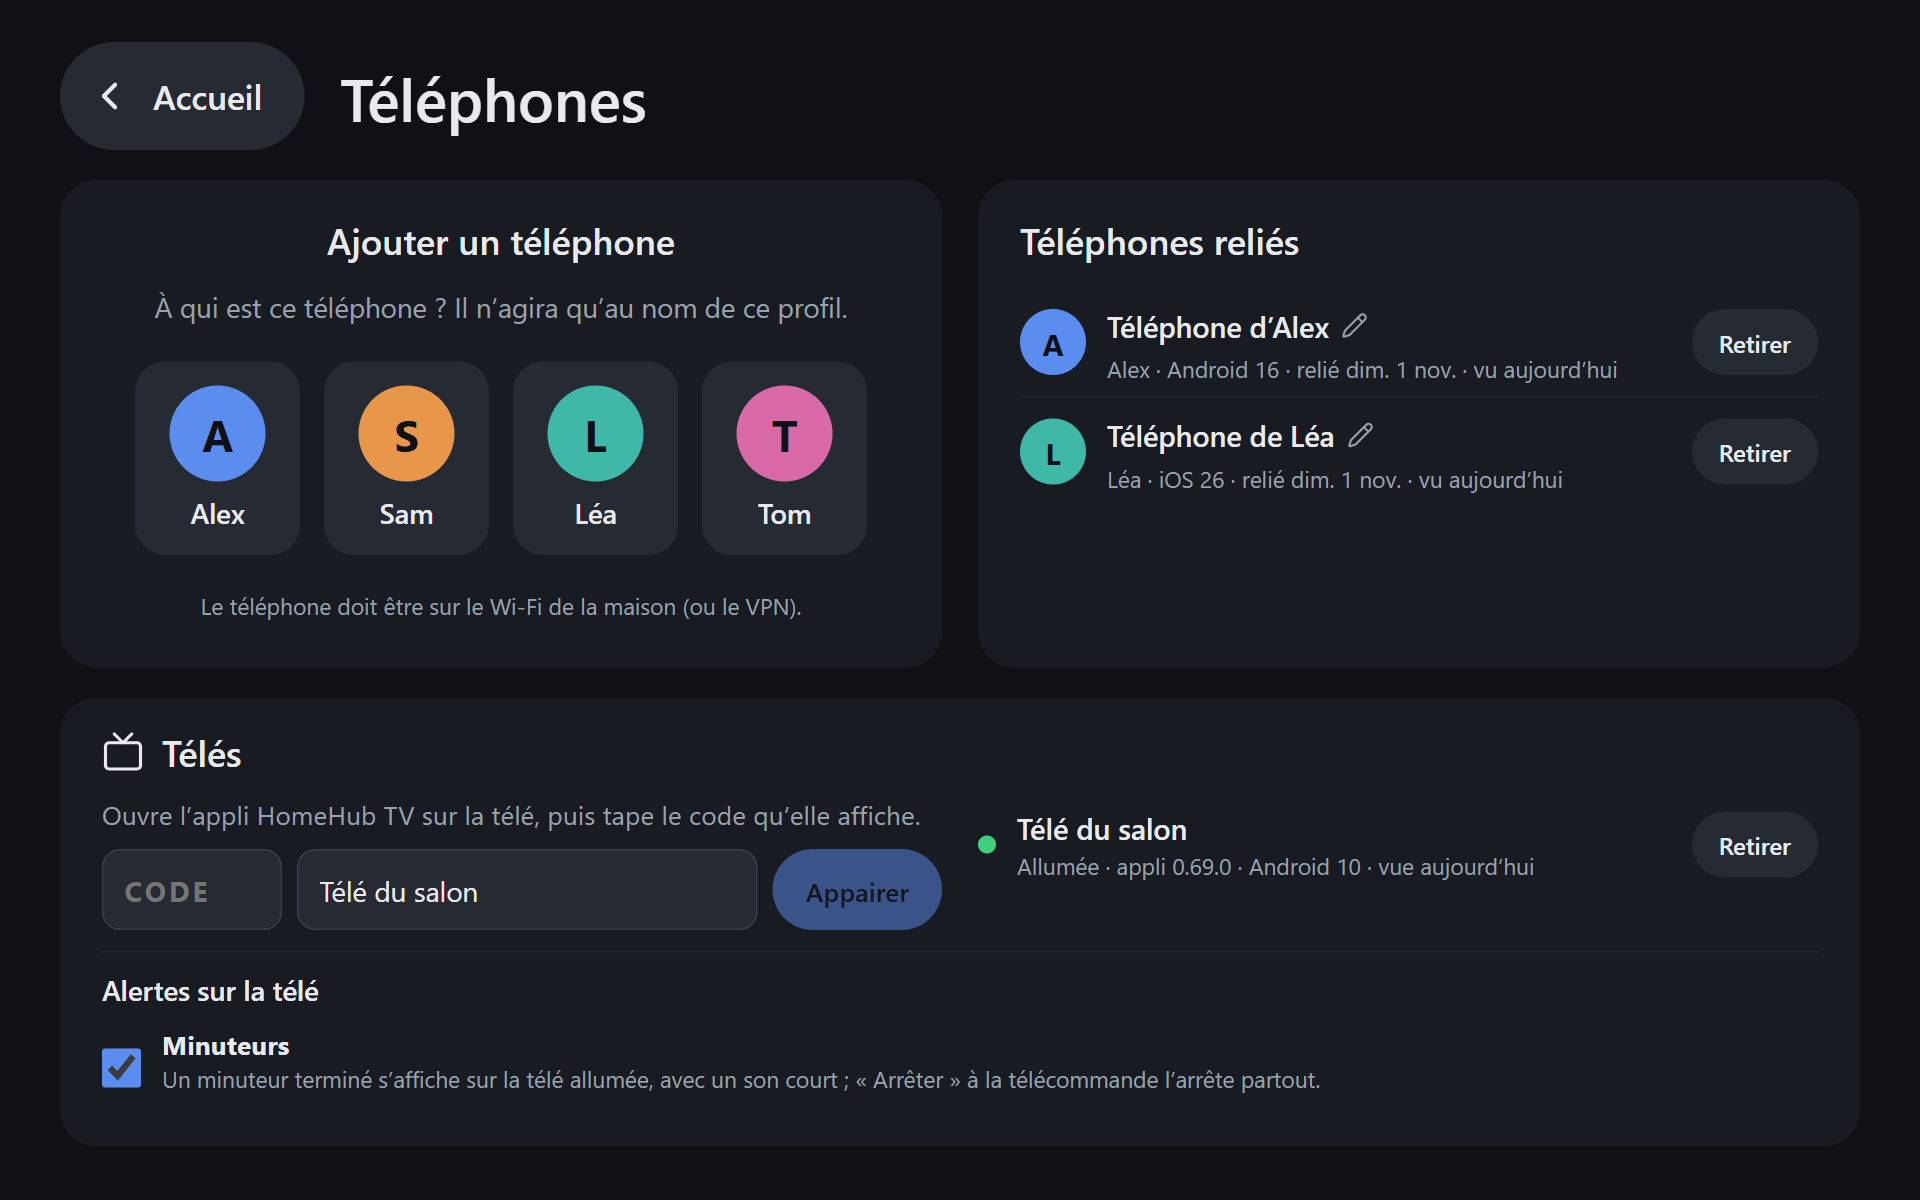
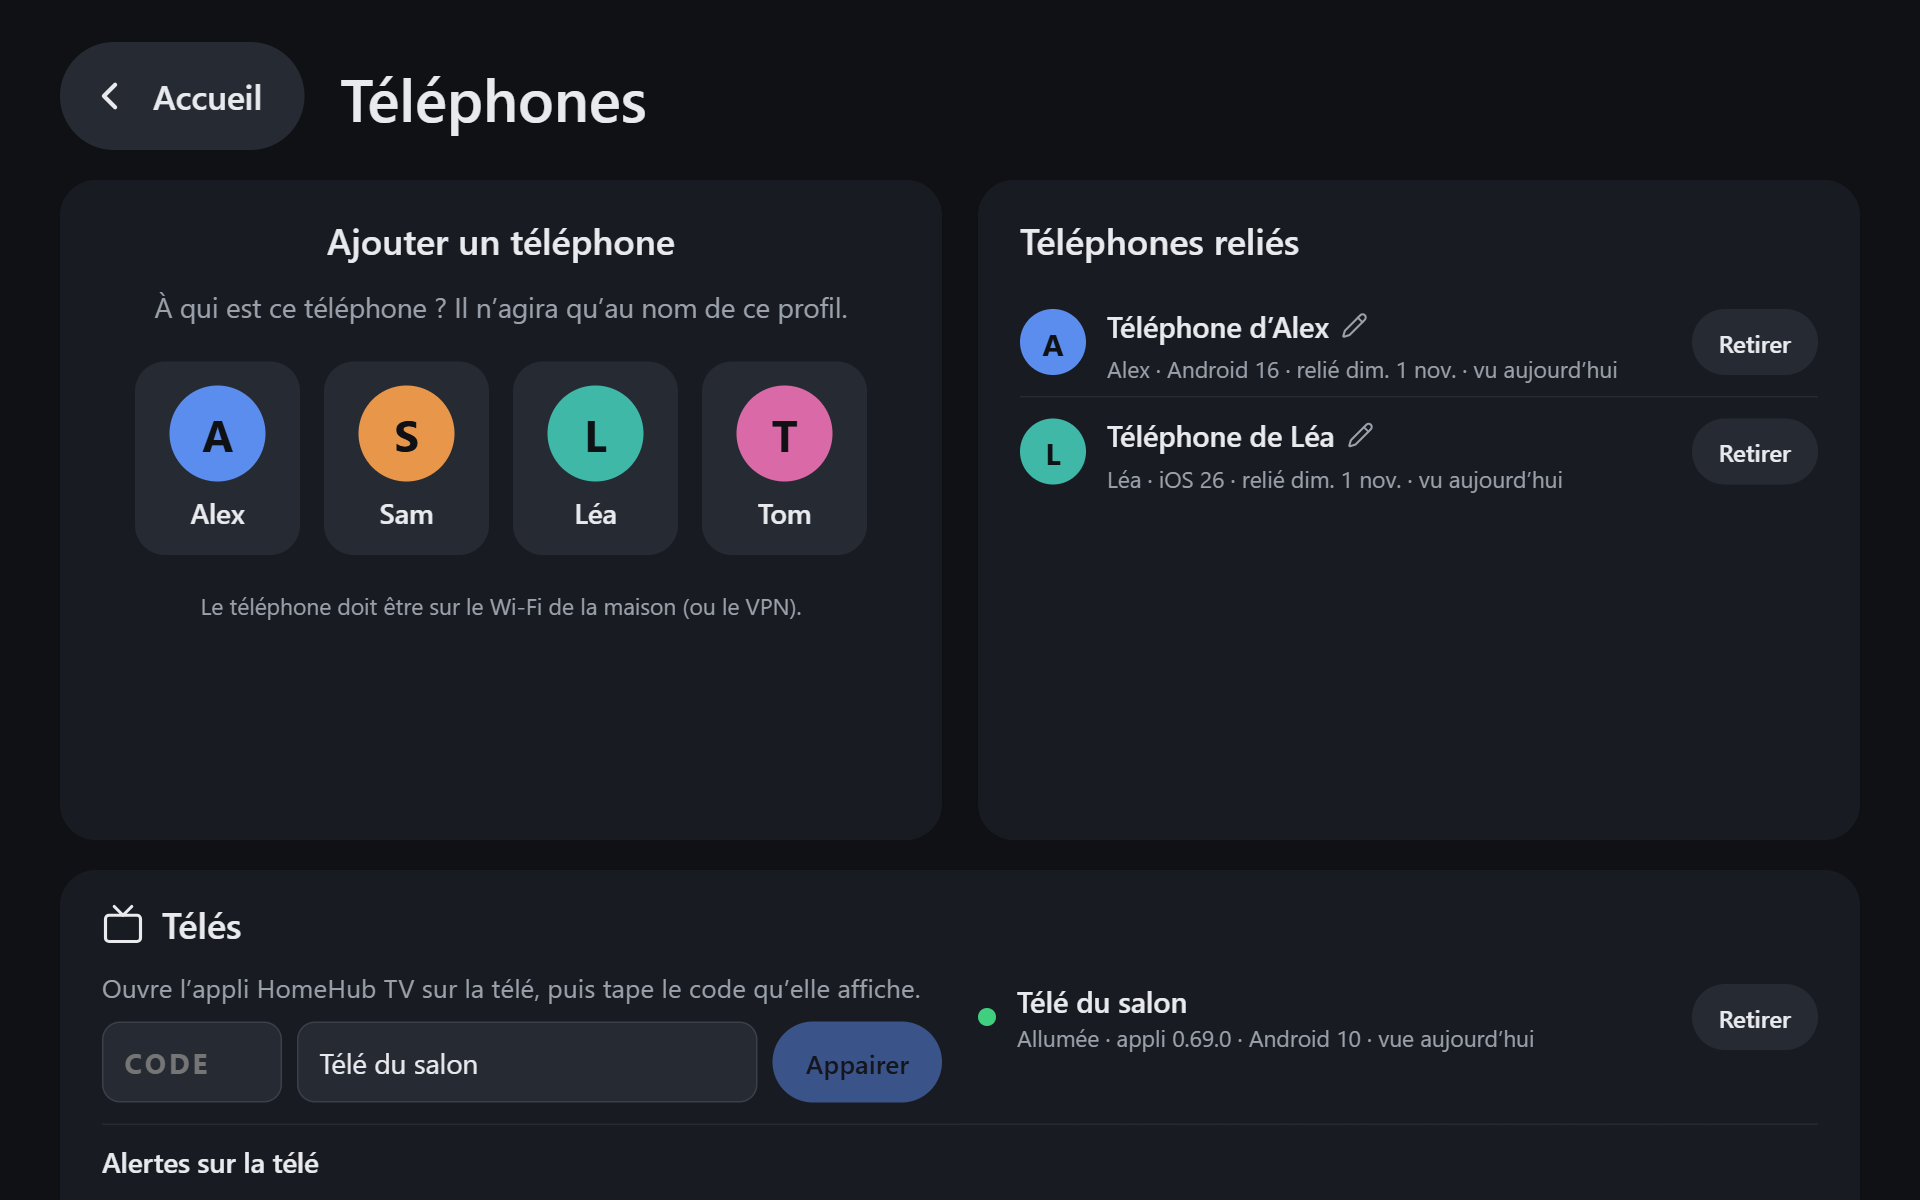
0.82.0 : rappels de la routine du soir et des mots à lire sur la télé
- Télé (appli HomeHub TV) : à l'heure réglée, bandeau cloche sur les télés allumées, 20 s : « Routine du soir »
  (qui a encore des étapes, et combien) et « Mots à lire » (qui a des mots pas vus, et combien, jamais leur texte).
- Un rappel par jour ; télé en veille à l'heure dite : il part si une télé s'allume dans la demi-heure. Rien à
  rappeler, pas de bandeau. Un message vocal en cours garde son bandeau, le rappel passe après.
- Tablette, Téléphones › Rappels sur la télé : interrupteur et heure par rappel (parent reconnu), « Essayer ».
  La page Téléphones défile désormais.
- Captures tablette-rappels-tele et tele-appli-rappel ; README, écrans, TODO à jour.

diff --git a/docs/ecrans.md b/docs/ecrans.md
@@ -1,6 +1,6 @@
 # Écrans
 
-Captures de HomeHub 0.81.0, avec des **données fictives** : famille de test (Alex, Sam, Léa, Tom), agenda d'exemple,
+Captures de HomeHub 0.82.0, avec des **données fictives** : famille de test (Alex, Sam, Léa, Tom), agenda d'exemple,
 faux ÉcoleDirecte, faux temps réel Irigo, produits et marques inventés à la place d'Open Food Facts, recettes inventées sur un faux site de cuisine, fiches produit inventées d'une fausse enseigne de drive, calendrier
 scolaire d'exemple (zone B), horloge arrêtée le jeudi 5 novembre 2026 à 07:35 (le 11 novembre et en décembre pour les fériés et les vacances). La météo est réelle,
 celle du jour de la capture.
